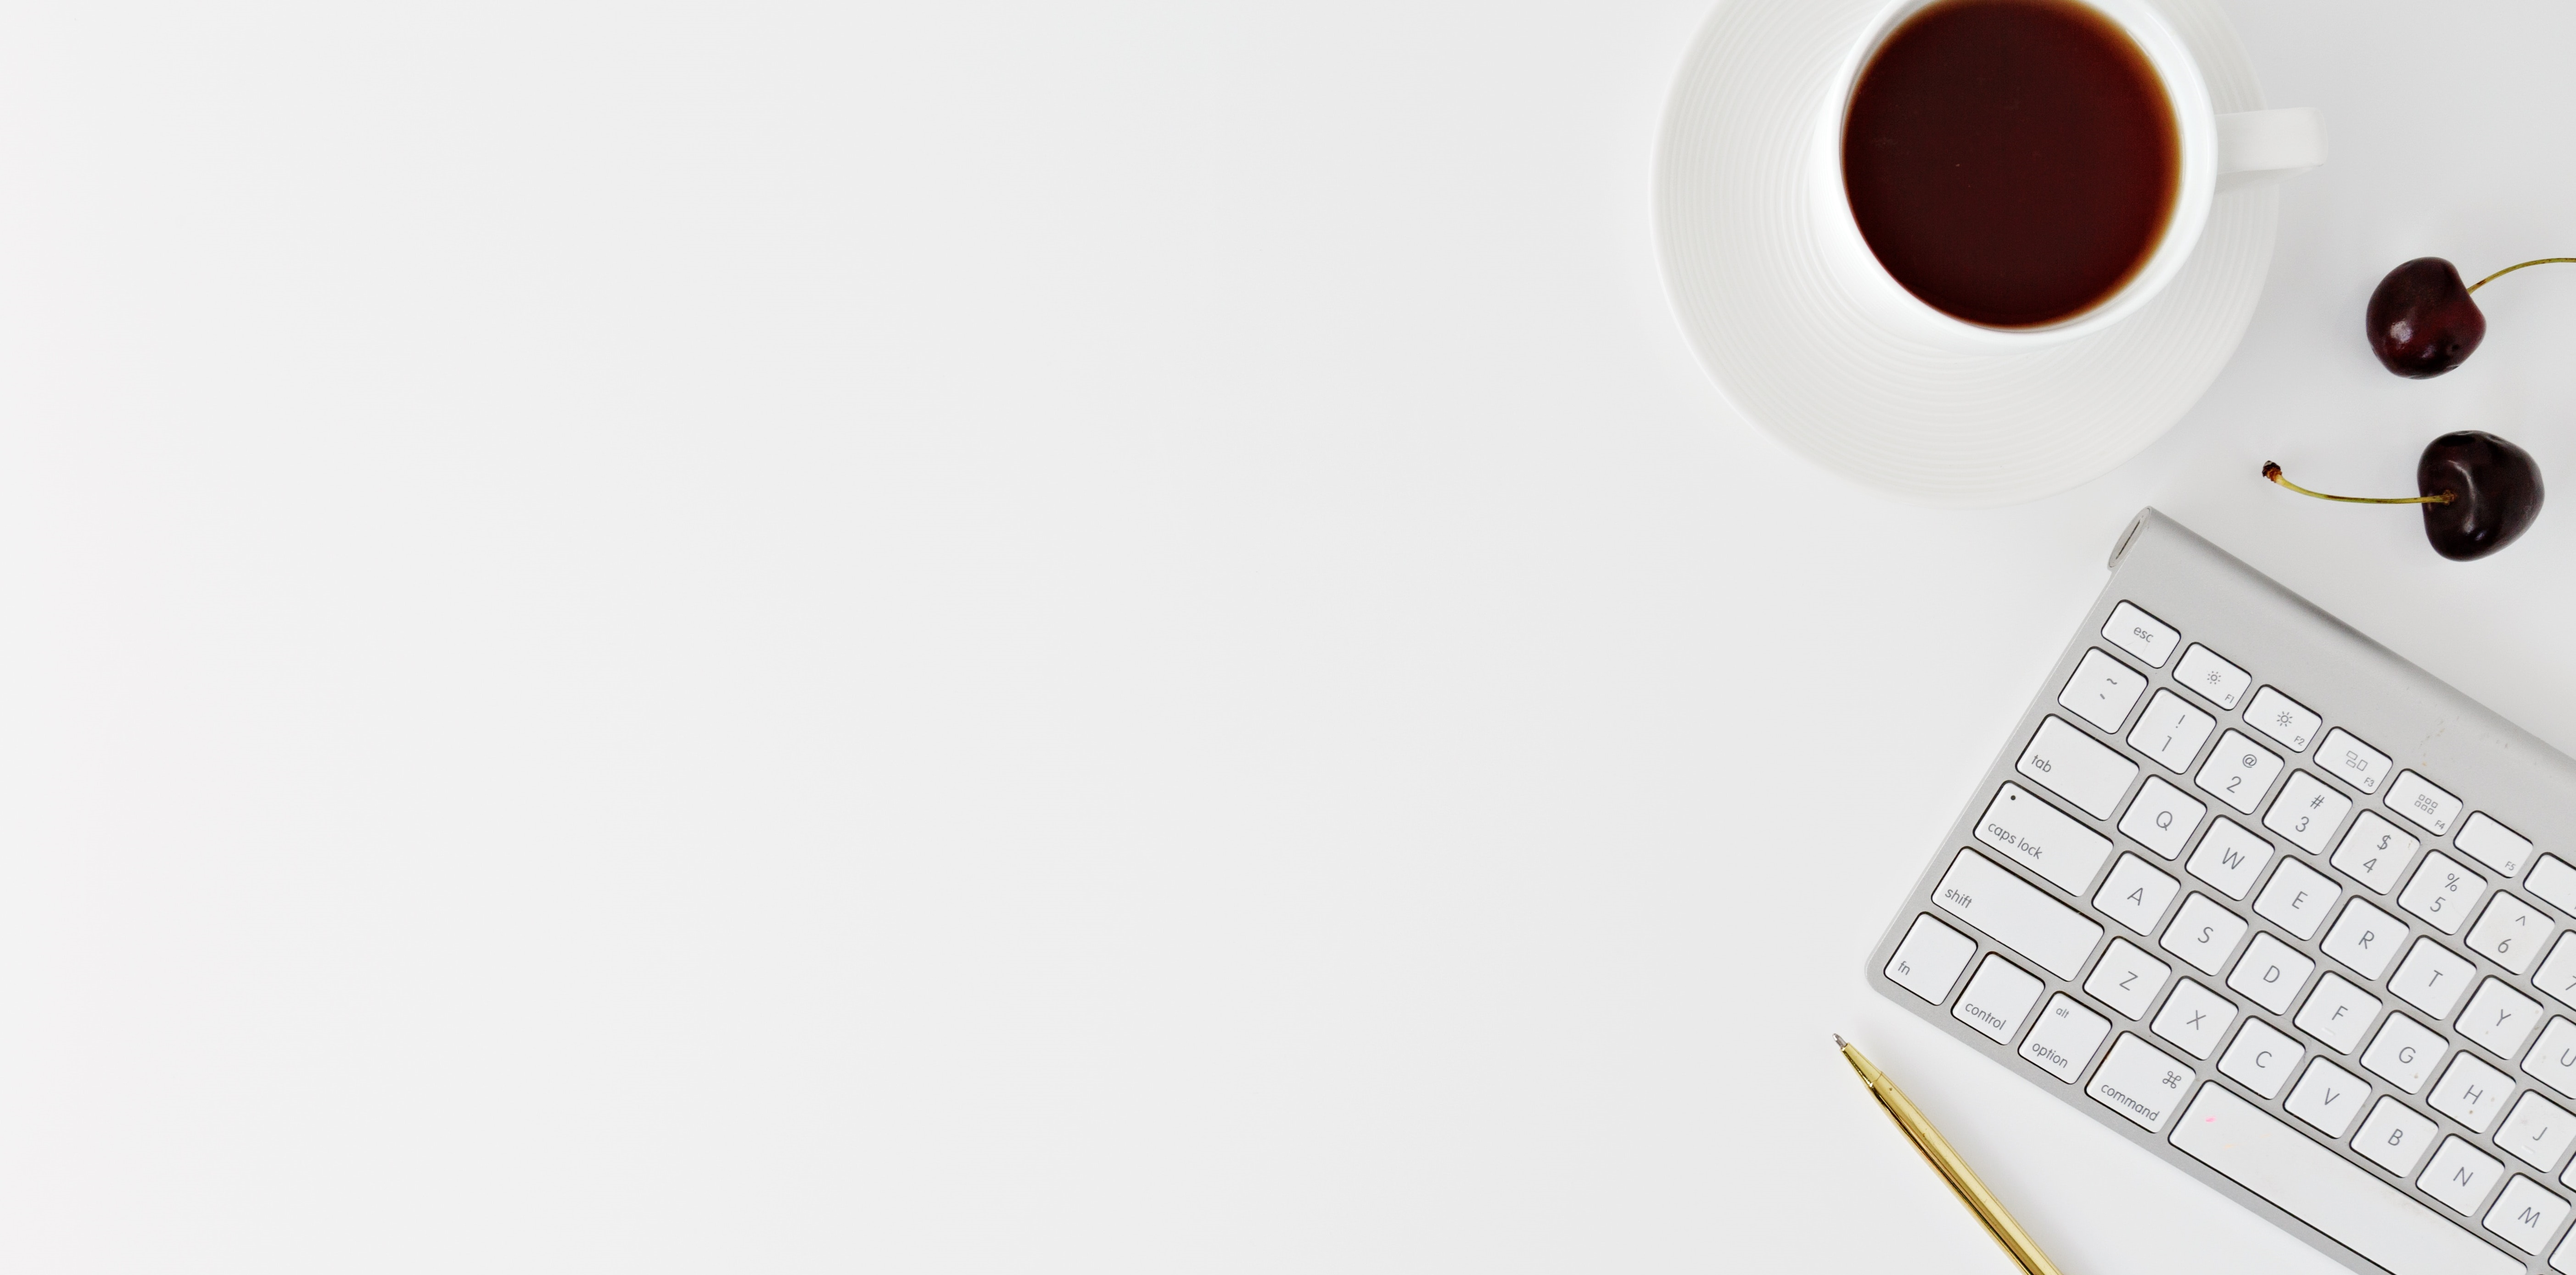
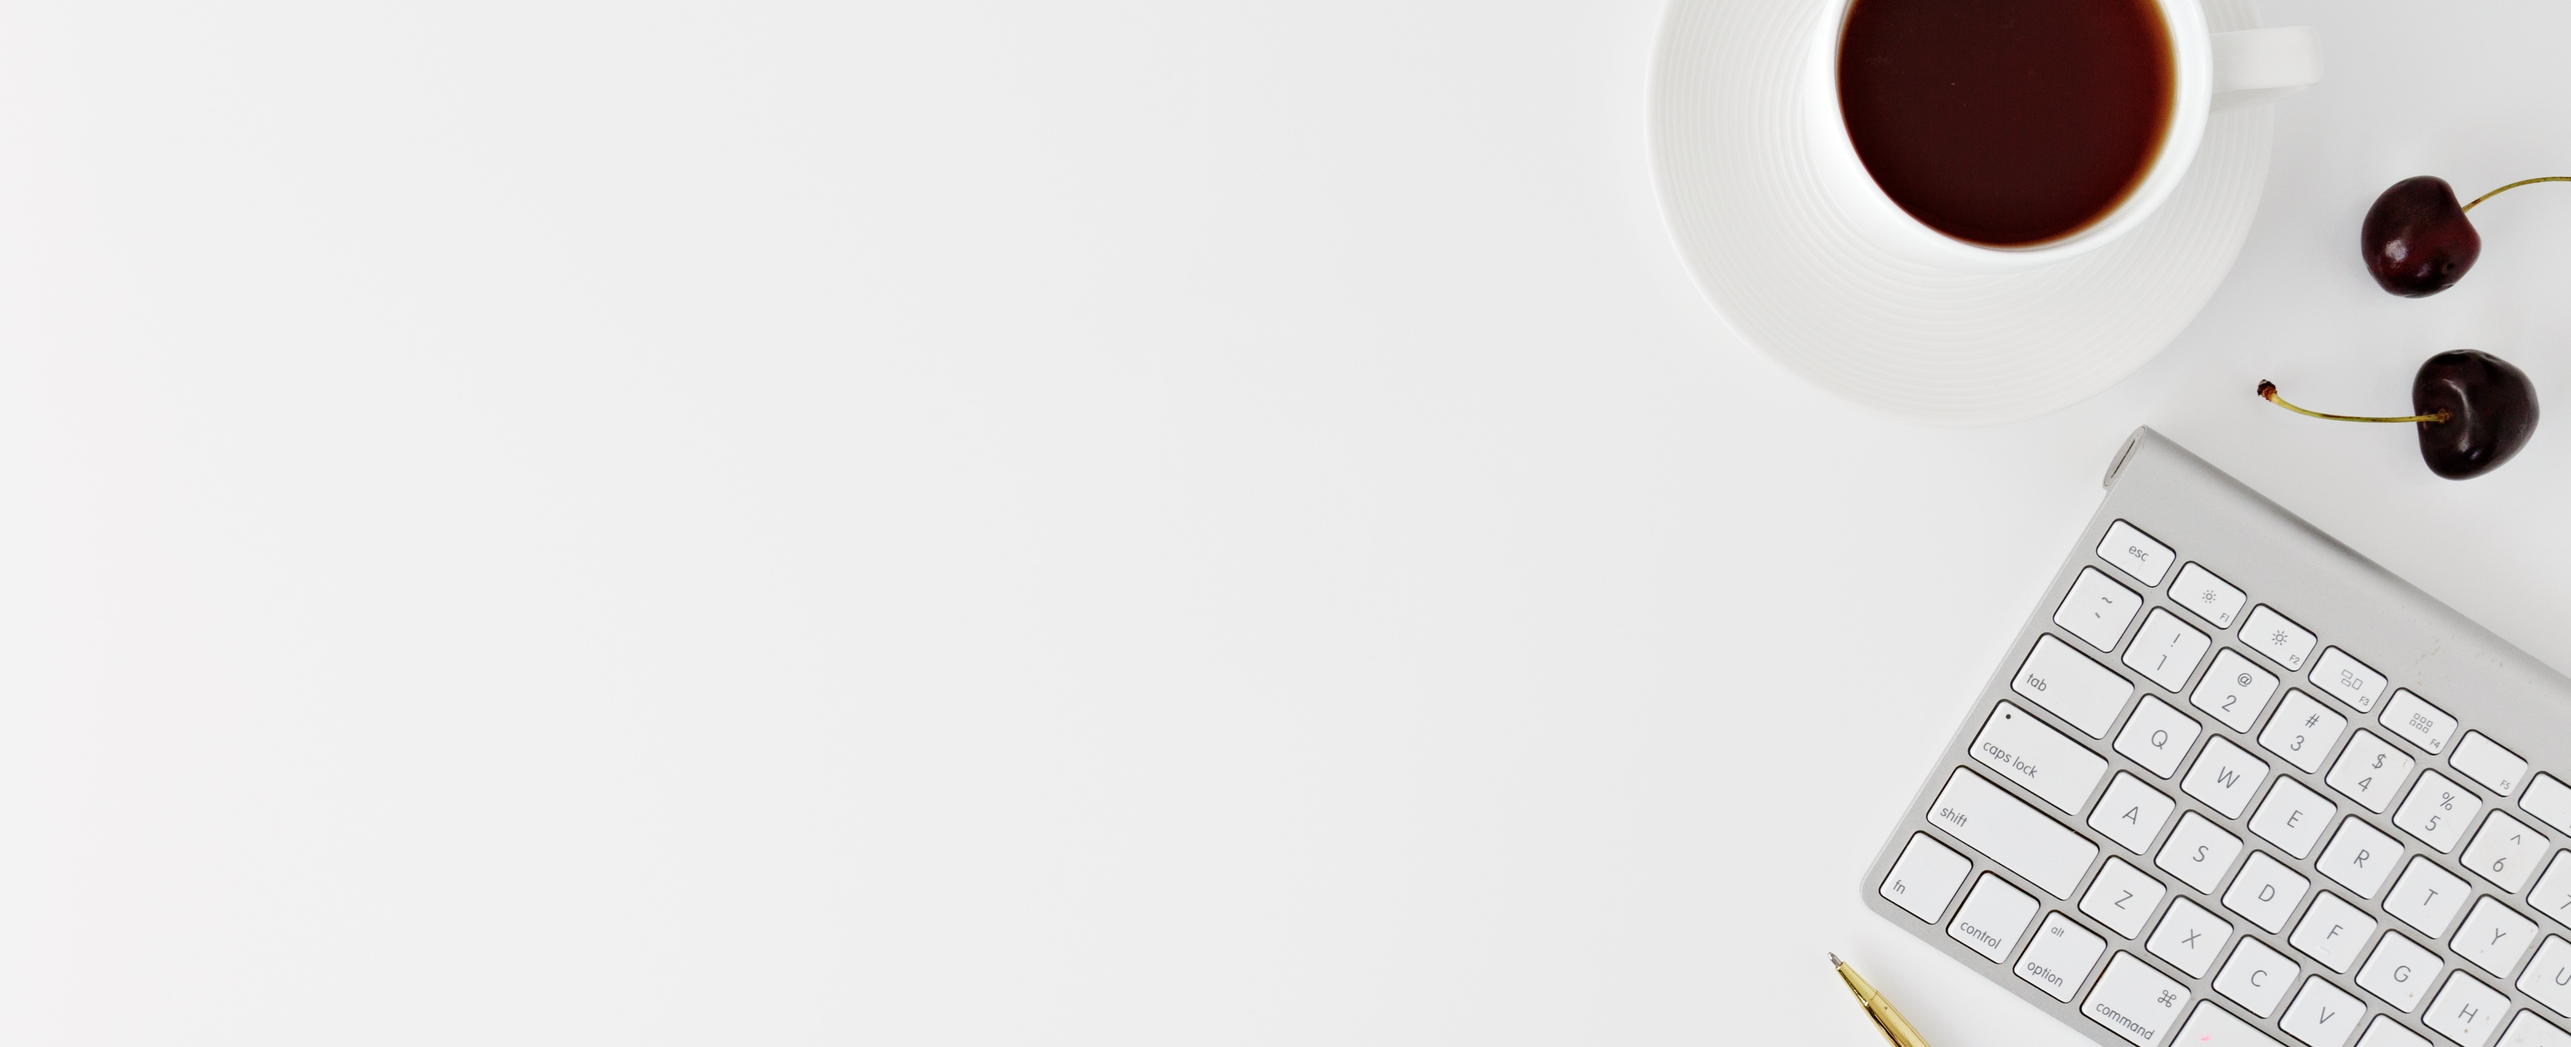
change the code

diff --git a/index.html b/index.html
@@ -36,12 +36,12 @@
     </div>
   </nav>
   <section class="banner text-center text-uppercase">
-    <div class="container">
+    <div class="container-fluid">
       <div class="row">
         <div class="col-md-12">
-          <div class="w-75 m-auto">
+          <div class="w-100 m-auto">
             <h2 class="pb-3">MY NAME IS KARTHIKEYAN N</h2>
-            <h4 class="pb-4">I have Skill on Development - Html - Css - JavaScript - Bootstrap - Git | I want to become a Front end web developer on reputed company | Actively Seeking Full-time opportunities. </h4>
+            <h5 class="pb-4">I have Skill on Development - Html - Css - JavaScript - Bootstrap - jquery.|using tools -vs code - git -githup | I want to become a Front end web developer on reputed company | Actively Seeking Full-time opportunities. </h5>
             <a href="https://wa.me/+918524961006?text=Hi karthikeyan!!!"class="btn btn-dark text-uppercase" target="_blank">connect with me</a>
           <div>
         </div>
@@ -53,7 +53,7 @@
     <div class="row align-items-center">
       <div class="col-md-6">
         <h5 class="pb-3">About me</h5>
-        <p class="pb-3">I Have completed B.Sc.,Computer Science in Bharath college of science and management in the year 2021.I am very enthusias on technology.I have Skill on Development - Html - Css - JavaScript - Bootstrap - Git.</p>
+        <p class="pb-3">I Have completed B.Sc.,Computer Science in Bharath college of science and management in the year 2021.I am very enthusias on technology.I have Skill on Development - Html - Css - JavaScript - Bootstrap - Jquery.</p>
         <p class="pb-3">A positive attitude, Hardworking Dedication, and Confidence are my greatesr Strength.</p>
       </div>
       <div class="col-md-6 text-center">
@@ -62,7 +62,7 @@
     </div>
 </div>
 </section>
-<section id="skills" class="bg-light pb-5">
+<section id="skills" class="bg-light py-5">
   <div class="container">
     <div class="row">
       <div class="col-md-12">
@@ -91,14 +91,22 @@
           <img src="/photo/JavaScript.png.png " class="card-img-top w-25 m-auto py-3" alt="html">
           <div class="card-body">
             <h5 class="card-title">JavaScript</h5>
-           </div>
+            </div>
         </div>
       </div>
       <div class="col-md-3">
         <div class="card text-center">
           <img src="/photo/bootstrap.png.png " class="card-img-top w-25 m-auto py-3" alt="html">
           <div class="card-body">
-            <h5 class="card-title">BootStrap</h5>
+            <h5 class="card-title">Bootstrap</h5>
+          </div>
+        </div>
+      </div>
+      <div class="col-md-3 mt-3">
+        <div class="card text-center">
+          <img src="/photo/jquery.png.png " class="card-img-top w-25 m-auto py-3" alt="html">
+          <div class="card-body">
+          <h5 class="card-title">Jquery</h5>
            </div>
         </div>
       </div>

diff --git a/CSS/styles.css b/CSS/styles.css
@@ -7,6 +7,6 @@
 .banner {
   background-image: url(/photo/background.jpg);
   background-size: cover;
-  padding: 250px;
+  padding: 200px;
   background-repeat: no-repeat;
 }
